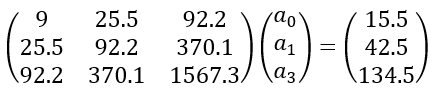
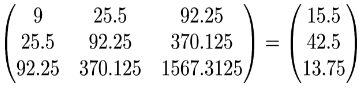
Fehlerkorrektur
Rechtschreibung(wahrscheinlich immer noch nicht perfekt)
Formeln ausgebessert
Meinen Namen richtig geschrieben

Changed region(s): [[0.0, 0.0449, 0.9973, 0.9438], [0.2115, 0.0674, 0.3626, 0.2921], [0.2115, 0.3596, 0.3626, 0.5618]]

diff --git a/website/example.html b/website/example.html
@@ -21,8 +21,8 @@ p{
 </div>
 
 <p>
-    Wir können Anhand der Daten erkennen das es sich bei dem gesuchten
-    Polyom um ein Polyom 2. Grades handelt. Wir wissen also das dies die gesuchte Form ist:
+    Wir können Anhand dieser Daten erkennen das es sich bei dem gesuchten
+    Polyom um ein Polyom 2. Grades handelt. Wir kennen also die gesuchte Form des Polynoms:
 </p>
 
 <img src="res/example/gen_quad.png" >
@@ -46,7 +46,7 @@ p{
 <img src="res/example/res_quad.png" >
 
 <p> 
-    Von diesem Term können wir partiell Ableiten.
+    Diesem Term können wir partiell Ableiten.
 </p>
 
 <img src="res/example/partial.png" >
@@ -64,22 +64,19 @@ p{
 <img src="res/example/equation.png" >
 
 <p>
-    Nun kann man 2 eliminieren und die a Werte herausheben  
+    Kann man 2 eliminieren und die a Werte herausheben  
 </p>
 
 <img src="res/example/equ_fin.png" >
 
 <p>
-    Nun gilt es nur noch dieses Gleichungsystem für a0, a1 und a2 zu lösen.
+    Nun gilt es nur noch die Werte für x und y einzusetzen, die Summen zu berechnen und
+    das resultierende Gleichungsystem für a0, a1 und a2 zu lösen.
 </p>
 
-<img src="res/example/calc_1.png" >
+<img src="res/example/calc_1.png" height="100px" width="399">
 
-<img src="res/example/calc_2.png" >
-
-<p>
-    ACHTUNG: Werte wurden gerundet
-</p>
+<img src="res/example/calc_2.png" height="100" width="399">
 
 <p>
     Und schon hat man das Ausgleichspolynom berechnet, welches dann so aussieht:

diff --git a/website/other.html b/website/other.html
@@ -49,27 +49,29 @@ p{
 <h2>Trendlinien:</h2>
 <h3>Linear</h3>
     <p>
-        Eine Gerade entlan des Datenverlaufes
+        Eine Gerade entlang des Datenverlaufes. Am besten geeignet für lineare Datensets,
+        welche stetig steigen oder fallen.
     </p>
 
     <img src="res/other/trend_line.png">
 
 <h3>Exponential</h3>
     <p>
-        Exponentialfunktion zum Beschreiben des Verlaufes, besonders Hilfreich zur Beschreibung z.B. Bevölkerungswachstum.  
+        Exponentialfunktion zum Beschreiben des Verlaufes, besonders Hilfreich zur Beschreibung
+        von exponentiell steigende oder fallende Datensets wie z.B. Bevölkerungswachstum.
     </p>
 
     <img src="res/other/trend_exp.png">
 
-<h3>Linear</h3>
+<h3>Polynomial</h3>
     <p>
-        Die Polinomiale Trendlinie ist euqivalent zum Ausgleichspolynom. Hilfreich zur Beschreibung von Werten die z.B periodisch wachsen und fallen.
+        Die Polynomiale Trendlinie ist euqivalent zum Ausgleichspolynom. Hilfreich zur Beschreibung von Datensets die steigen und fallen.
     </p>
 
     <img src="res/other/trend_pol1.png">
 
     <p>
-        Hier noch die Polinomiale Trednlinie zu den Werten aus dem Beispiel zum Ausgleichspolynom
+        Hier noch die Polynomiale Trednlinie zu den Werten aus dem Beispiel zum Ausgleichspolynom
     </p>
 
     <img src="res/other/trend_pol2.png">

diff --git a/website/theory.html b/website/theory.html
@@ -23,8 +23,8 @@ p{
 </p>
 
 <p>
-	Wir wissen das ein Polynom als eine Funktion auf eine Funktion auf x ausgedrückt werden kann. Diese Funktion auf x bestimmt eine y Variable.
-	Da wir über mehrere x und y Werte werte verfgen, können wir diese Funktion wie folgt ausdrücken:
+	Wir wissen das ein Polynom als eine Funktion auf x ausgedrückt werden kann. Diese Funktion auf x bestimmt Variable y.
+	Da wir über mehrere x Werte verfügen die mehrere y Werte bestimmen, können wir diese Funktion wie folgt ausdrücken:
 </p>
 	
 <img src="res/example/px_y.png" >
@@ -38,7 +38,7 @@ p{
 	
 <p>
 	Normalerweise könnte man nun den y Wert auf die linke Seite der Gleichung bringen und den Term gleich Null setzen.
-	Da wir aber wissen das wir kein Polynom suchend as alle Punkte tatsächlich schneidet, sondern das Polynom das den
+	Da wir aber wissen das wir kein Polynom suchend das alle Punkte tatsächlich schneidet, sondern das Polynom welches den
 	geringsten Abstand zu jedem Punkt aufweist, können wir davon ausgehen das:
 </p>
 	

diff --git a/website/welcome.html b/website/welcome.html
@@ -22,5 +22,5 @@ h1{
     <li>Kharin Stepan</li>
     <li>Kiener Paul</li>
     <li>Kurmayer Alexander</li>
-    <li>Pallf Dominic</li>
+    <li>Palffy Dominic</li>
 </div>

diff --git a/website/res/stylesheet.css b/website/res/stylesheet.css
@@ -24,7 +24,7 @@ body {
 
     border: 1px solid gray;
     background:#fff0e6;
-    opacity: 0.8;
+    opacity: 0.85;
     overflow: hidden;
 
     border-radius: 5px;
